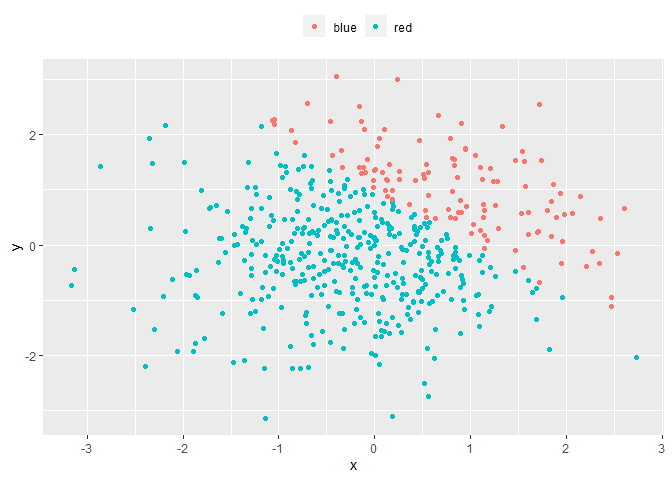
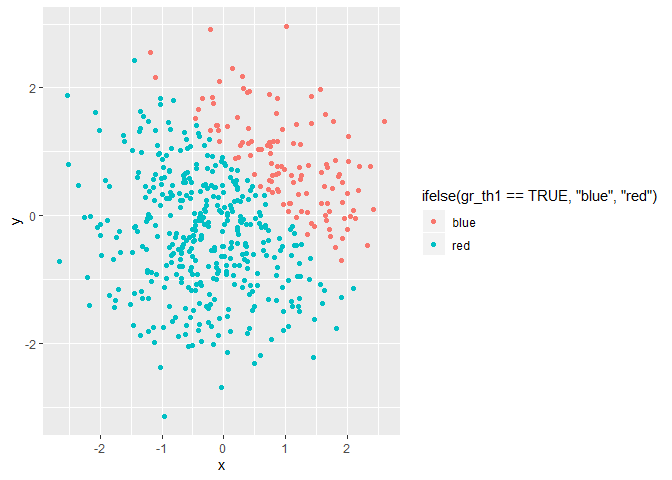
Another attempt at problem 2

diff --git a/p8105_hw1_jsg2145.md b/p8105_hw1_jsg2145.md
@@ -43,9 +43,9 @@ df1 = tibble(
 
 Take the mean of each vector:
 
-I can take the mean of samp = 0.6404732
+I can take the mean of samp = -0.0881219
 
-I can take the mean of samp\_pos = 0.625, but it won’t tell me much
+I can take the mean of samp\_pos = 0.5, but it won’t tell me much
 
 The mean of a character vector doesn’t make sense, NA
 
@@ -84,22 +84,33 @@ df2 = tibble(
 
 The size of this dataframe is 500 rows by 5 columns.
 
-The mean of x is -0.0512693, the median of x is -0.0284383, and
+The mean of x is -0.0208217, the median of x is -0.0866665, and
 
-the standard deviation of x is 1.0072263. The proportion of cases for
+the standard deviation of x is 1.0158132. The proportion of cases for
 which x + y \> 1
 
 is 0.234.
 
 ``` r
-cols <- c("blue" = "x + y <= 1", "red" )
-
-ggplot(data = df2, 
-       aes(x, y,
-           color = ifelse(gr_th1 == TRUE, "blue", "red"),
-           manual_fill_)) +
-  geom_point(data = df2, aes(x, y)) +
-  theme(legend.position = "top", legend.title = element_blank())
+ggplot(data = df2,
+       aes(x = x, y = y, 
+       color = ifelse(gr_th1 == TRUE, "blue", "red"),
+       legend(legend = c("Sum not greater than 1", "Sum greater than 1")))) +
+  geom_point()
 ```
 
 ![](p8105_hw1_jsg2145_files/figure-gfm/unnamed-chunk-2-1.png)<!-- -->
+
+``` r
+with(df2, 
+     plot(x, y))
+with(
+  filter(df2, gr_th1 == TRUE),
+  points(x, y, col = 'red'))
+with(
+  filter(df2, gr_th1 == FALSE),
+  points(x, y, col = 'blue'))
+legend("bottomleft", pch=1, col=c("blue","red"), legend=c("Sum not greater than 1","Sum greater than 1"))
+```
+
+![](p8105_hw1_jsg2145_files/figure-gfm/unnamed-chunk-2-2.png)<!-- -->
